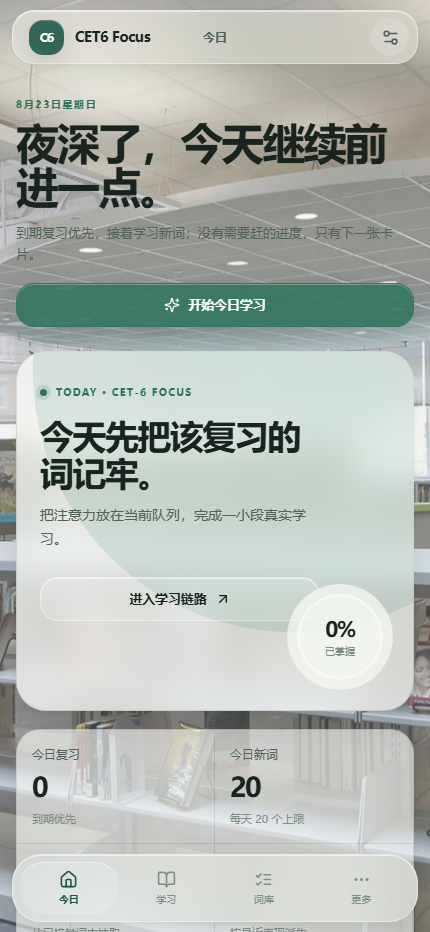
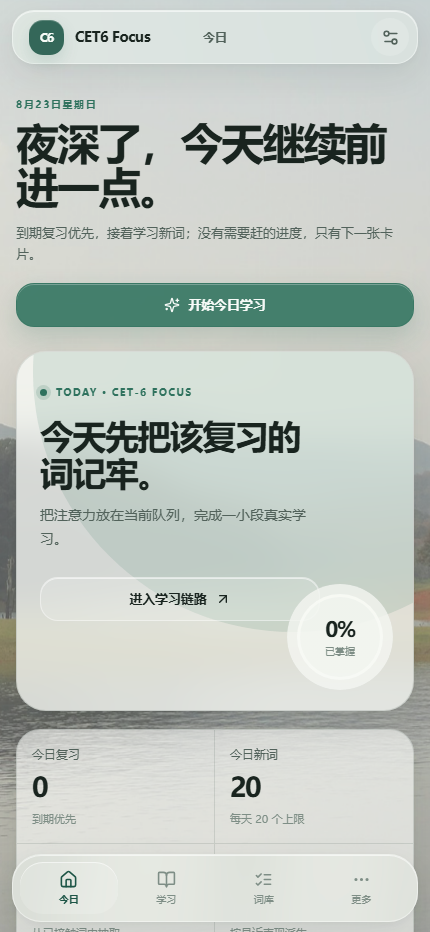
docs: record final Pages smoke evidence

diff --git a/FINAL_V1_1_RELEASE_REPORT.md b/FINAL_V1_1_RELEASE_REPORT.md
@@ -25,6 +25,8 @@
 
 GitHub Pages deployment ID `6047386387` reported `state: success`, and its deployed SHA is exactly `7aa93ea1caf67f6621878ea5f8737407c6d16070`. The Pages environment is configured for `main`, workflow deployment, HTTPS, and the `/cet6-focus/` subpath.
 
+After this report and its evidence were pushed, the final evidence commit `ded751cac5cf5a271dd5a3b69362bb7c96ff8d77` also passed [quality run 32637406536](https://github.com/justin2001tec-ops/cet6-focus/actions/runs/32637406536) and [Pages run 32637406497](https://github.com/justin2001tec-ops/cet6-focus/actions/runs/32637406497). The resulting Pages deployment `6047580526` reported `state: success`, pointed to that evidence commit, and served the same runtime bundle. A fresh full online smoke run against that latest deployment completed successfully at 2026-08-23 11:48Z.
+
 ## Production online smoke
 
 The final run used a fresh Playwright Chromium context against the real Pages URL. It exited with code 0.
